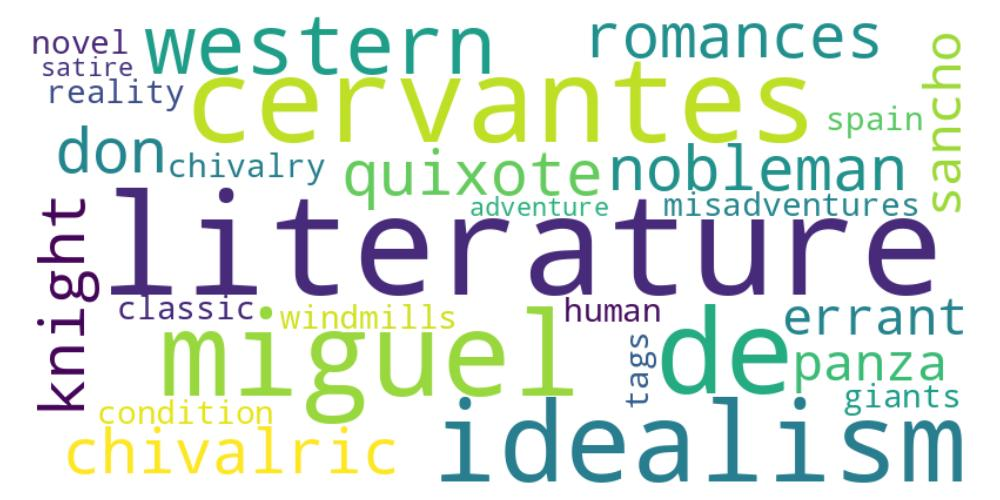
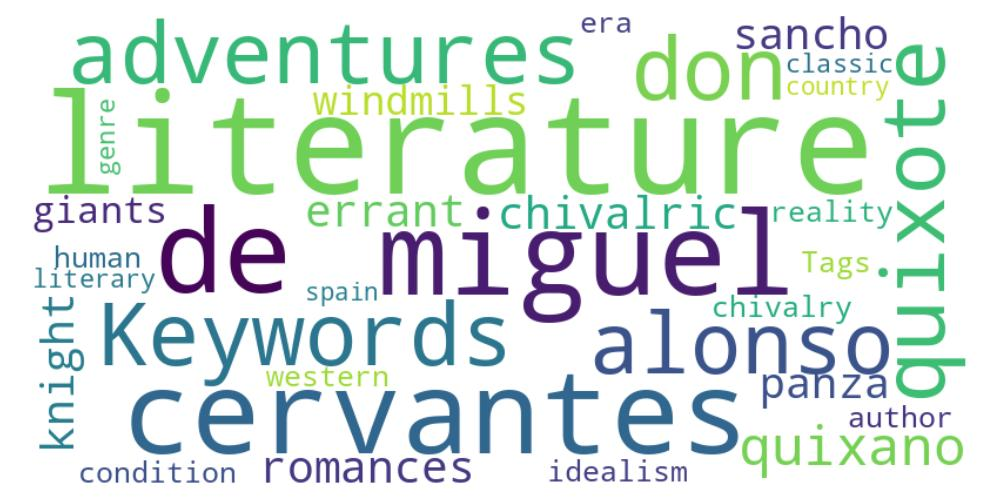
chore: commit save point

diff --git a/main.py b/main.py
@@ -60,30 +60,64 @@ def generate_tag_cloud(keywords: str, output_path: str):
     plt.savefig(output_path, format="jpg")
     plt.close()
 
-def main():
-    # Aquí podrías tener la cadena de texto de entrada.
-    input_text = """
-    Don Quixote, written by Miguel de Cervantes and first published in 1605, is considered one of the 
-    greatest works of literature ever written. This timeless classic follows the adventures of Alonso 
-    Quixano, a nobleman who reads so many chivalric romances that he loses his sanity and decides to 
-    become a knight-errant, renaming himself Don Quixote. Accompanied by his loyal squire, Sancho Panza, 
-    he sets out on a series of misadventures, battling windmills he believes to be giants and attempting 
-    to revive chivalry in a world that has moved on. A profound exploration of idealism, reality, and the 
-    human condition, Don Quixote remains a cornerstone of Western literature.
+def extract_related_books(text: str) -> str:
     """
+    Envía el texto a la API de OpenAI para obtener un listado de libros relacionados con su autor.
+    """
+    response = openai.ChatCompletion.create(
+        model="gpt-3.5-turbo",
+        messages=[
+            {
+                "role": "system",
+                "content": (
+                    "You are an expert in literature and books. You will be provided with a blurb of a famous book. "
+                    "Your task is to suggest a list of related books along with their authors. The output should be "
+                    "formatted as a list, where each entry is in the format: 'Title - Author'."
+                )
+            },
+            {
+                "role": "user",
+                "content": text
+            }
+        ],
+        temperature=0.3,
+        max_tokens=128
+    )
+
+    # El texto devuelto por el modelo:
+    related_books = response["choices"][0]["message"]["content"].strip()
+    return related_books
+
+def main():
+    # Aquí podrías tener la cadena de texto de entrada organizada en una lista legible.
+    input_text = [
+        "Don Quixote, written by Miguel de Cervantes and first published in 1605, is considered one of the",
+        "greatest works of literature ever written. This timeless classic follows the adventures of Alonso",
+        "Quixano, a nobleman who reads so many chivalric romances that he loses his sanity and decides to",
+        "become a knight-errant, renaming himself Don Quixote. Accompanied by his loyal squire, Sancho Panza,",
+        "he sets out on a series of misadventures, battling windmills he believes to be giants and attempting",
+        "to revive chivalry in a world that has moved on. A profound exploration of idealism, reality, and the",
+        "human condition, Don Quixote remains a cornerstone of Western literature."
+    ]
+    input_text = " ".join(input_text)  # Convertimos la lista en un solo string
 
     # Llamamos a la función para extraer palabras clave
     extracted_keywords = extract_keywords(input_text)
 
     # Imprimimos el resultado
-    print("Extracted keywords:")
+    print("------ OUTPUT ------")
     print(extracted_keywords)
 
-    # Generamos la nube de palabras y la guardamos en el folder "img/"
+    # Llamamos a la función para obtener libros relacionados
+    related_books = extract_related_books(input_text)
+    print("\nRelated books:")
+    print(related_books)
+
+        # Generamos la nube de palabras y la guardamos en el folder "img/"
     output_path = "img/tag_cloud.jpg"
     os.makedirs(os.path.dirname(output_path), exist_ok=True)
     generate_tag_cloud(extracted_keywords, output_path)
-    print(f"Tag cloud saved to {output_path}")
+    print(f"\n\nTag cloud saved to {output_path}")
 
 if __name__ == "__main__":
     main()
